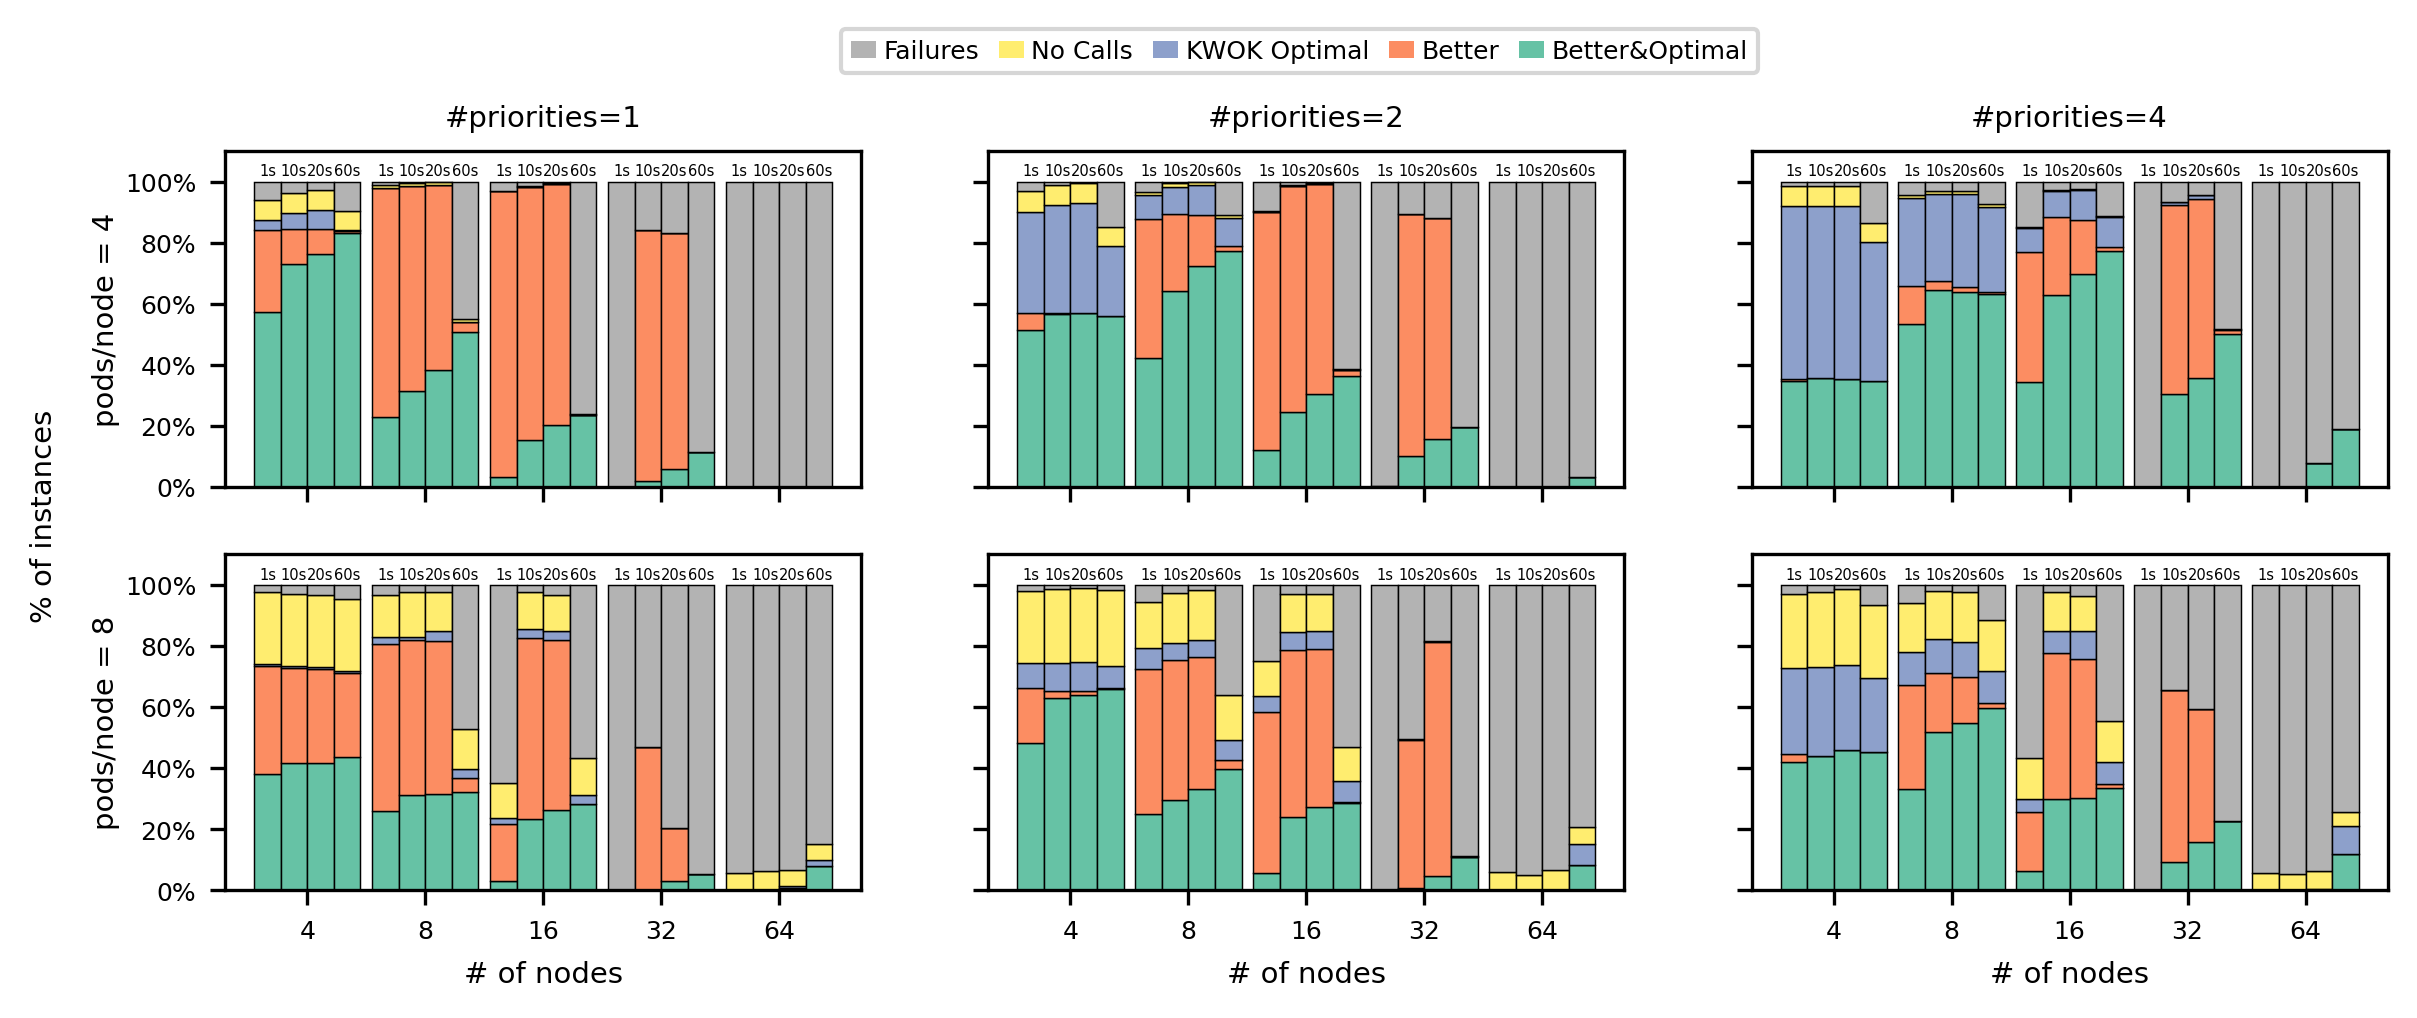
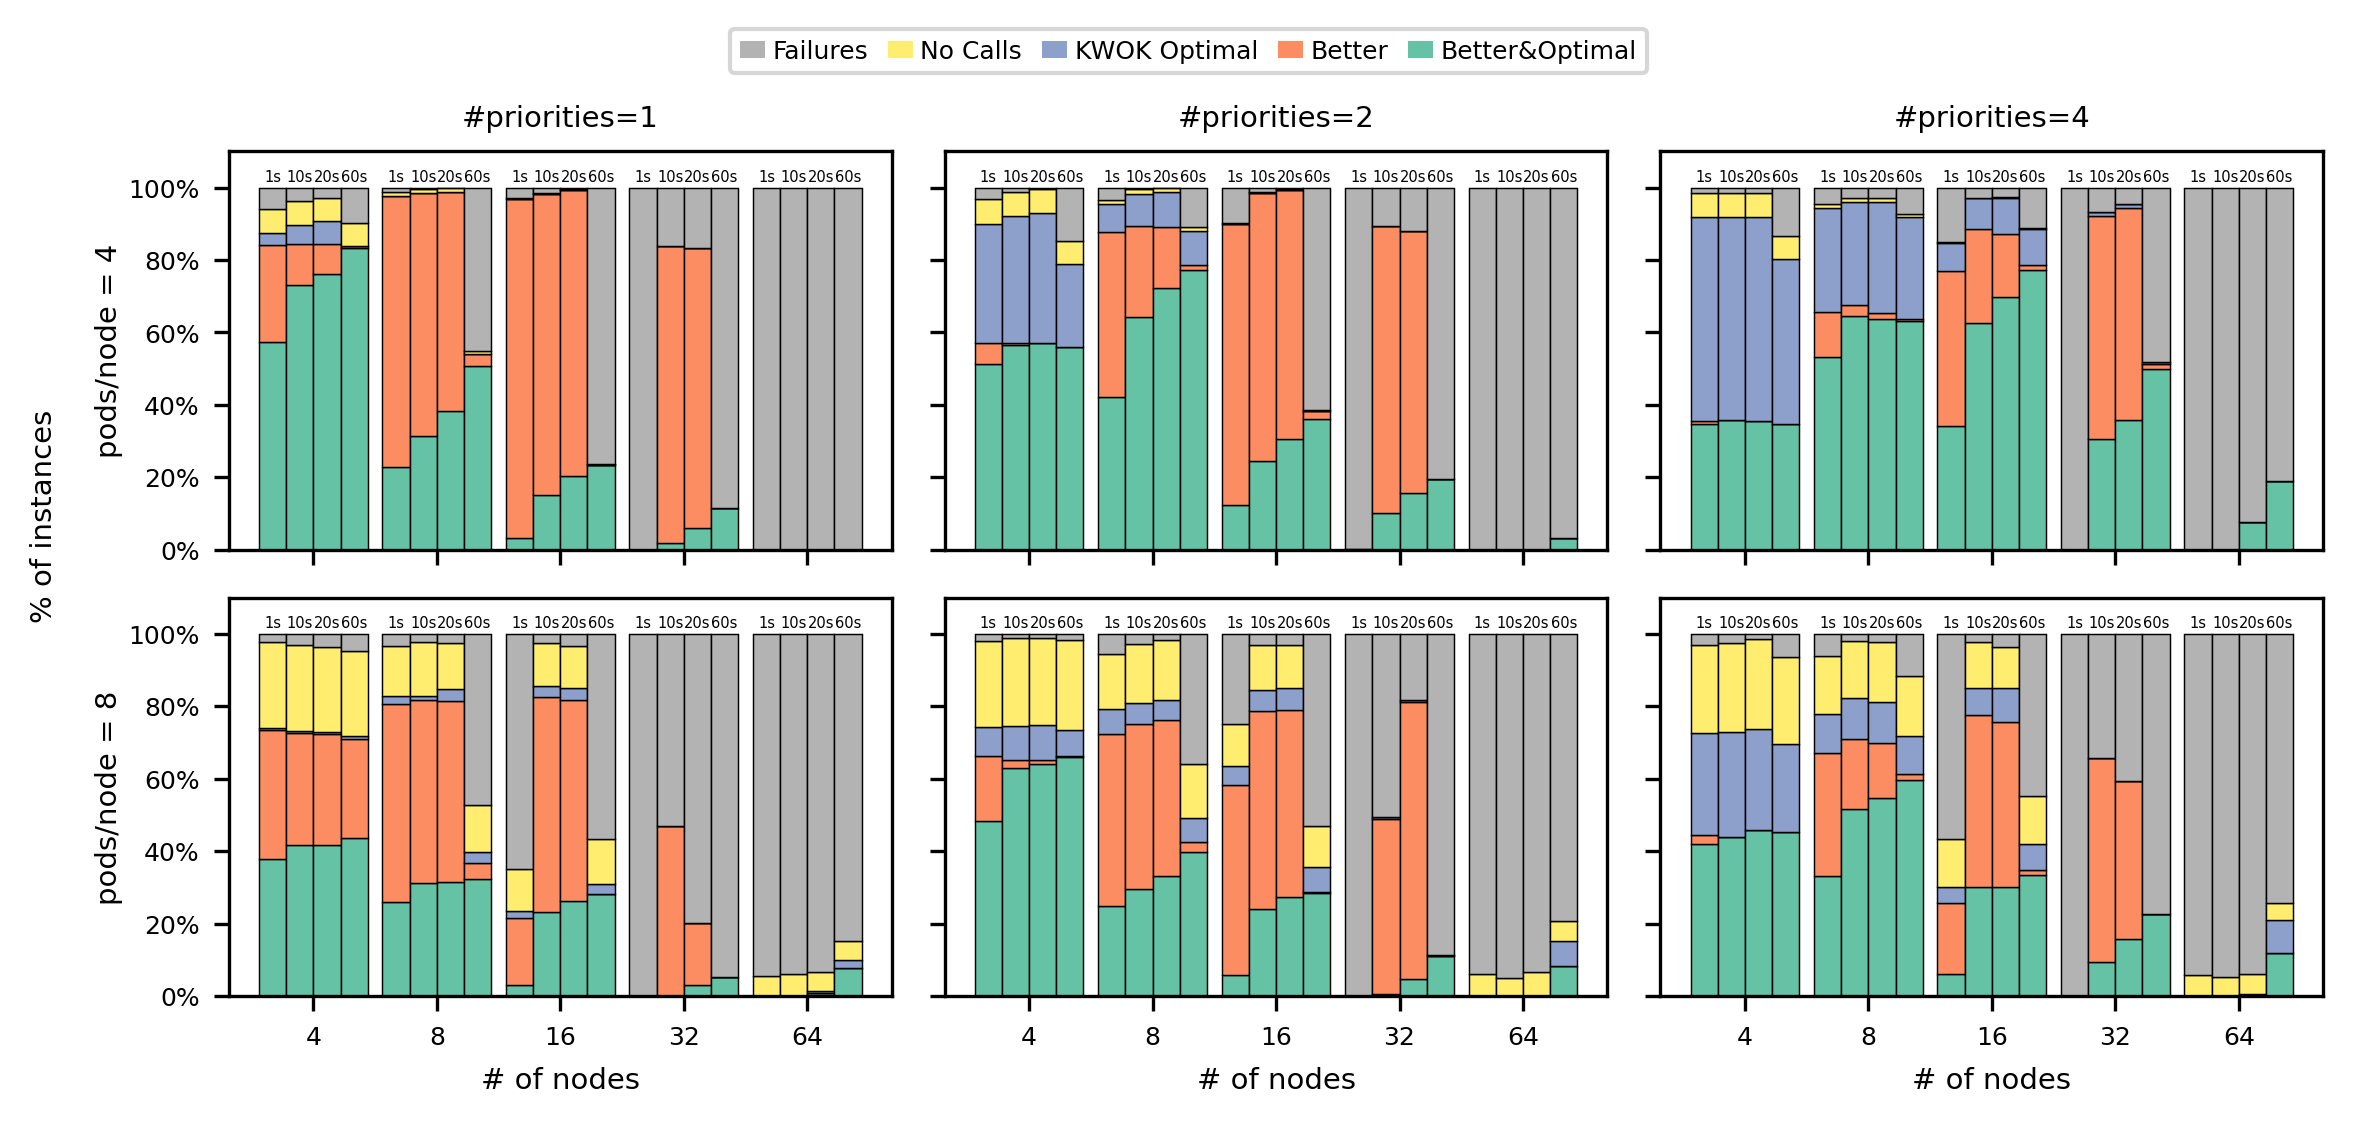
up

diff --git a/scripts/kwok_workload_once/plots_and_tables.py b/scripts/kwok_workload_once/plots_and_tables.py
@@ -31,7 +31,7 @@ from scripts.config.plot_config import (
 # CONFIG (constants)
 #################################################################
 
-DF_PER_COMBO_PATH = Path("analysis/kwok_workload_once/per_combo_results.csv")
+DF_PER_COMBO_PATH = Path("analysis/kwok_workload_once/results_per_combo.csv")
 
 OUT_DIR = Path("analysis/kwok_workload_once")
 OUT_FIGURES_DIR = OUT_DIR / "figures"
@@ -58,8 +58,15 @@ PODS_PER_NODE_LABEL = "pods/node"
 FIGURE_FORMATS = ["pdf", "png"]
 
 # 2d sizes
-CELL_FIGSIZE_2D = (3.1, 1.6)
-BAR_WIDTH_2D = 0.9
+GRID_2D_CELL_FIGSIZE = (2.6, 1.6)
+GRID_2D_BAR_WIDTH = 0.88
+GRID_2D_WSPACE = 0.08
+GRID_2D_HSPACE = 0.12
+GRID_2D_LEFT = 0.1
+GRID_2D_RIGHT = 0.995
+GRID_2D_BOTTOM = 0.0
+GRID_2D_TOP = 0.88
+GRID_2D_YLABEL_XPOS = 0.015
 
 # 3d sizes
 FIGSIZE_3D = (8, 4)
@@ -350,7 +357,7 @@ def plot_2d_grid_ppn_prio_with_aggregated_util(
         squeeze=False,
     )
 
-    fig.supylabel("% of instances", fontsize=PLOT_AXIS_LABEL_FONTSIZE, x=0.055)
+    fig.supylabel("% of instances", fontsize=PLOT_AXIS_LABEL_FONTSIZE, x=GRID_2D_YLABEL_XPOS)
 
     seen_keys = set()
 
@@ -370,7 +377,7 @@ def plot_2d_grid_ppn_prio_with_aggregated_util(
             nodes_vals = sorted(panel["nodes"].unique().tolist())
             ts = sorted(panel["timeout_s"].unique().tolist())
             bars_per_group = max(1, len(ts))
-            width = BAR_WIDTH_2D / bars_per_group
+            width = GRID_2D_BAR_WIDTH / bars_per_group
             x = np.arange(len(nodes_vals))
 
             for j, timeout in enumerate(ts):
@@ -445,6 +452,16 @@ def plot_2d_grid_ppn_prio_with_aggregated_util(
         handlelength=PLOT_LEGEND_HANDLE_LENGTH,
         handletextpad=PLOT_LEGEND_HANDLE_TEXT_PAD,
         columnspacing=PLOT_LEGEND_COLUMN_SPACING,
+    )
+    
+    # Make the grid tighter (reduce space between panels)
+    fig.subplots_adjust(
+        left=GRID_2D_LEFT,
+        right=GRID_2D_RIGHT,
+        bottom=GRID_2D_BOTTOM,
+        top=GRID_2D_TOP,
+        wspace=GRID_2D_WSPACE,
+        hspace=GRID_2D_HSPACE,
     )
 
     save_figure(fig, out_path)
@@ -584,7 +601,7 @@ def main() -> None:
         ppns=PLOT_PPNS,
         priorities=PLOT_PRIORITIES,
         out_path=OUT_FIGURES_DIR / "2d_grid_ppn_prio",
-        cell_figsize=CELL_FIGSIZE_2D,
+        cell_figsize=GRID_2D_CELL_FIGSIZE,
     )
 
     for ppn in PLOT_PPNS:

diff --git a/scripts/kwok_trace_replayer/plots_and_tables.py b/scripts/kwok_trace_replayer/plots_and_tables.py
@@ -1387,17 +1387,12 @@ def main() -> None:
             produced_figs.extend([OUT_FIGURES_DIR / f"{out_stem}.png", OUT_FIGURES_DIR / f"{out_stem}.pdf"])
 
     # Summary
-    print("Produced outputs:\n")
     print("Tables:")
     for p in produced_tables:
         print(f"  - {p}")
     print("\nFigures:")
     for p in produced_figs:
         print(f"  - {p}")
-    print("")
-    print(f"Wrote tables to:  {OUT_TABLES_DIR}")
-    print(f"Wrote figures to: {OUT_FIGURES_DIR}")
-    print(f"Input: {IN_RESULTS_SEEDS}")
 
 
 if __name__ == "__main__":

diff --git a/scripts/kwok_workload_once/seal_results.py b/scripts/kwok_workload_once/seal_results.py
@@ -416,7 +416,7 @@ class CombineResultsAnalyzer:
             if c in per_combo_df.columns:
                 per_combo_df[c] = pd.to_numeric(per_combo_df[c], errors="coerce")
 
-        out_per_combo = out_dir / "per_combo_results.csv"
+        out_per_combo = out_dir / "results_per_combo.csv"
         per_combo_df.sort_values(
             ["util", "nodes", "pods_per_node", "priorities", "timeout_s", "config_dir"]
         ).to_csv(out_per_combo, index=False)
